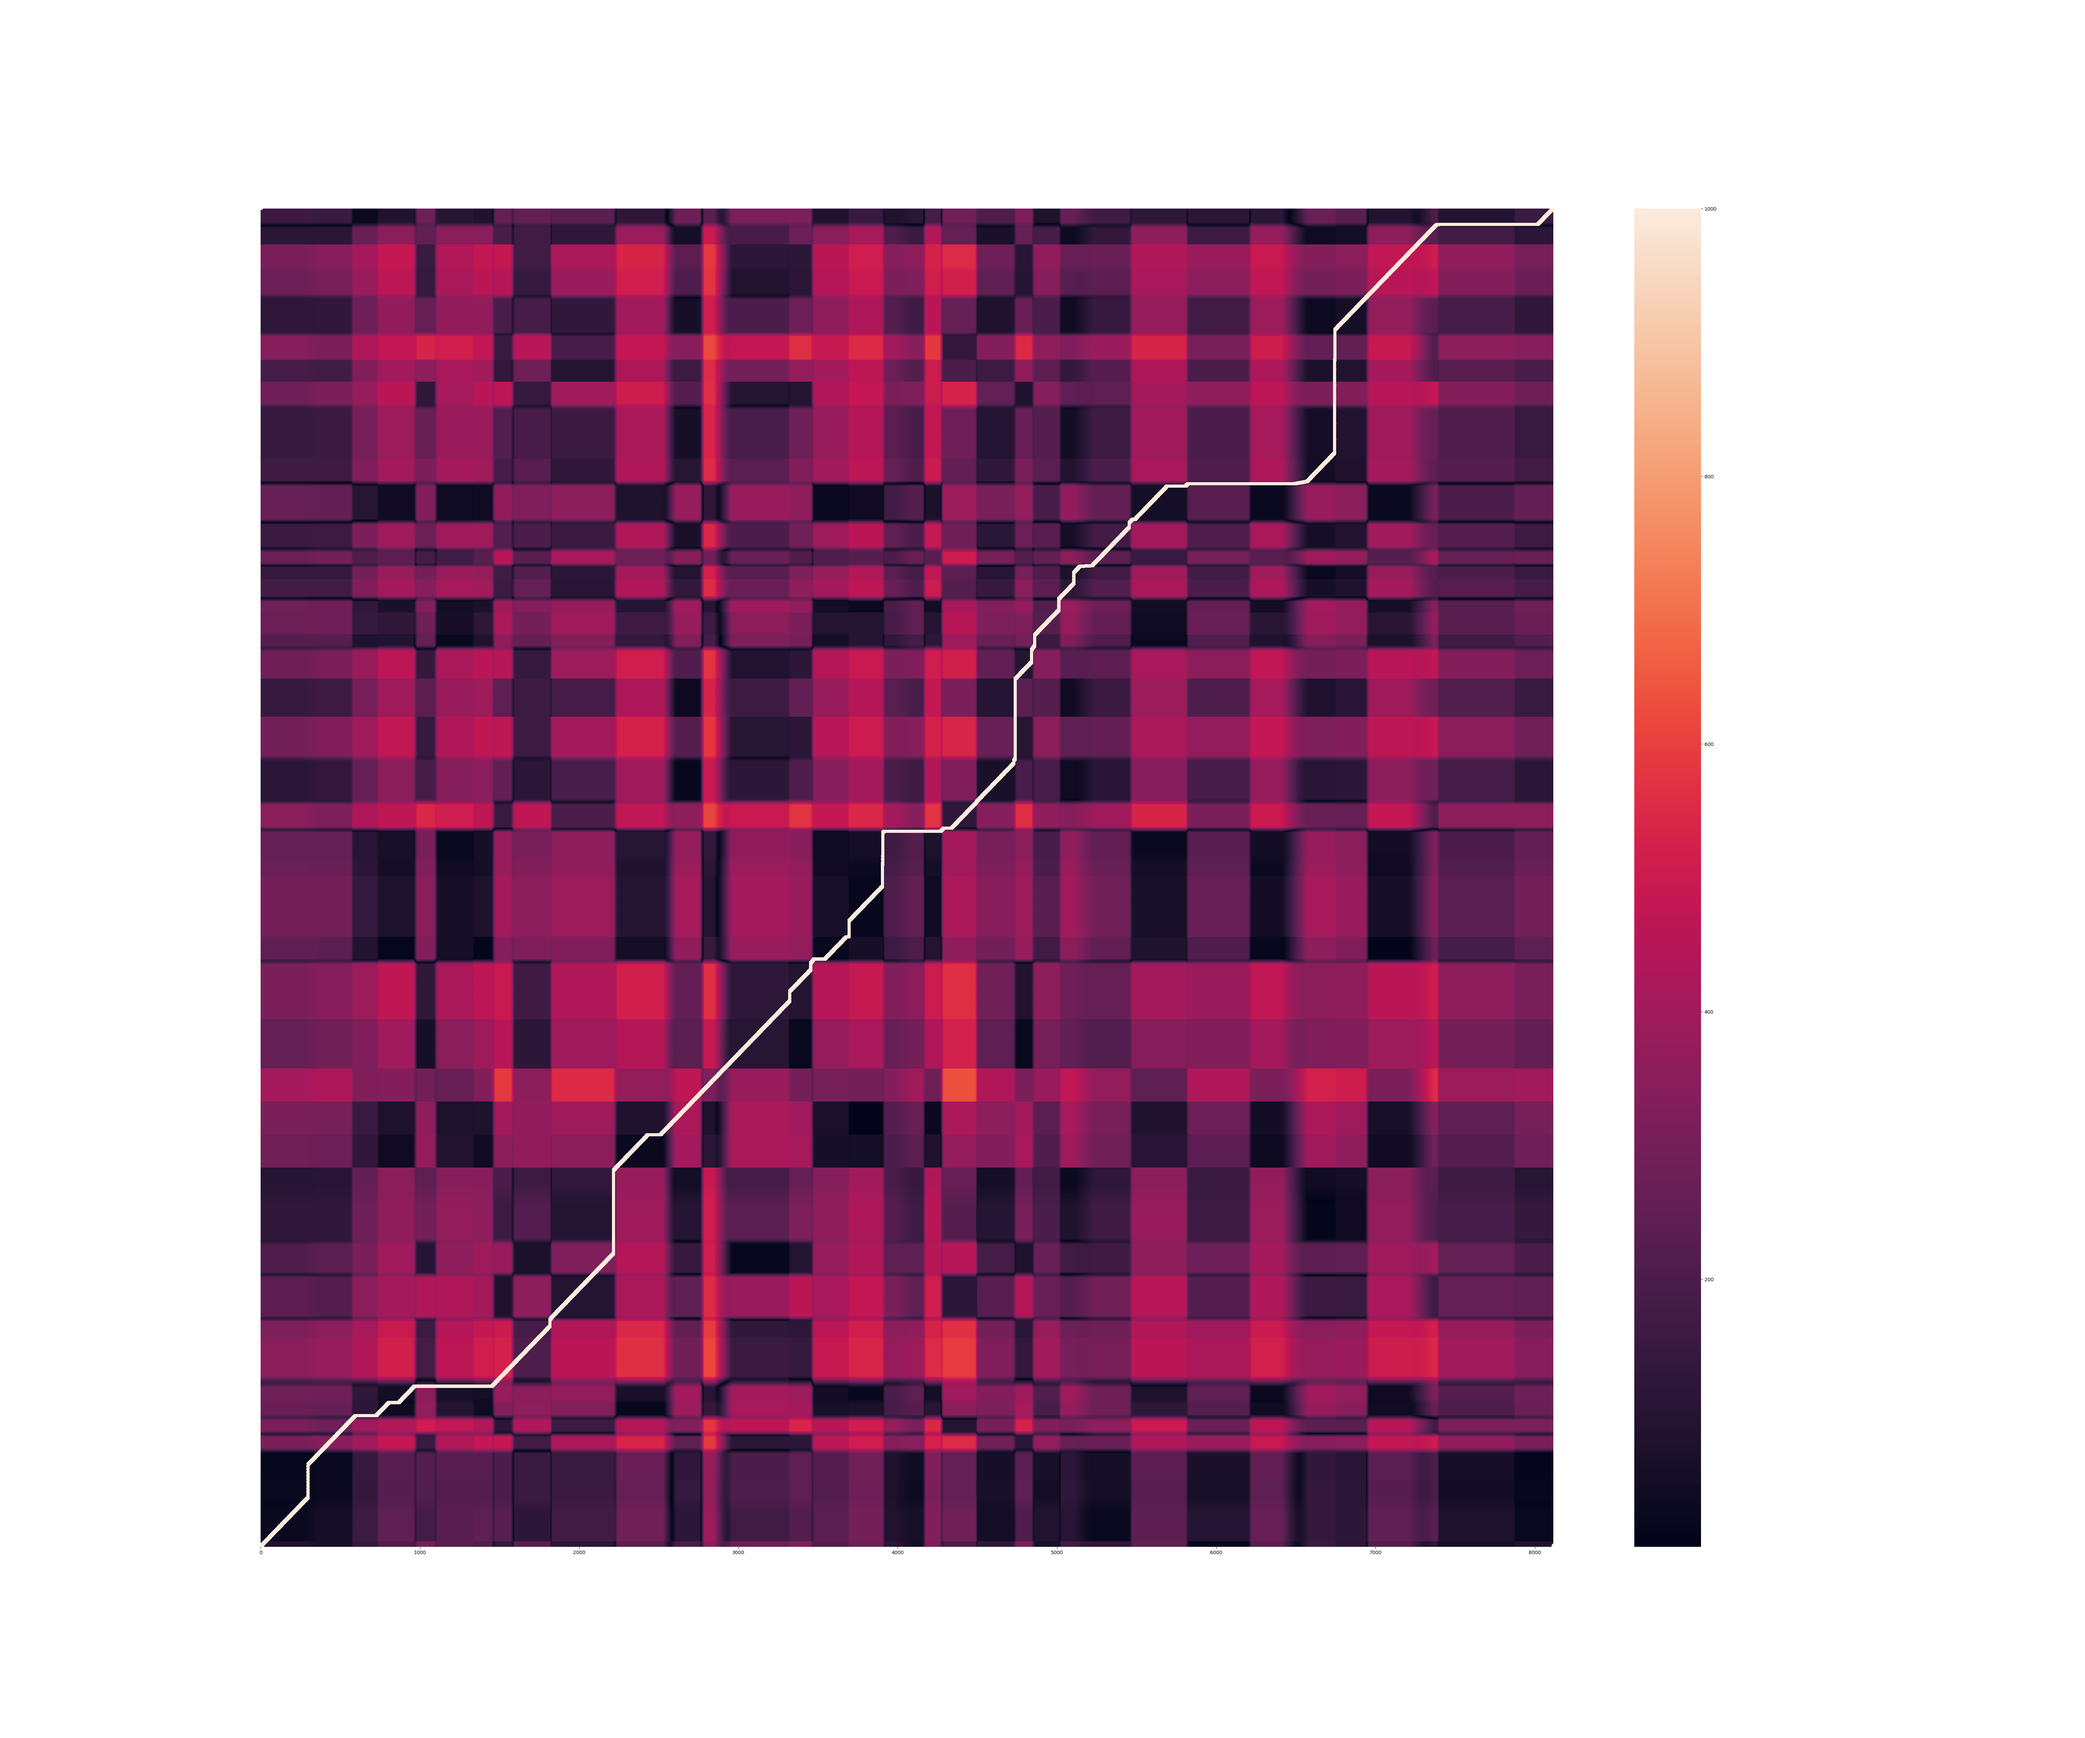
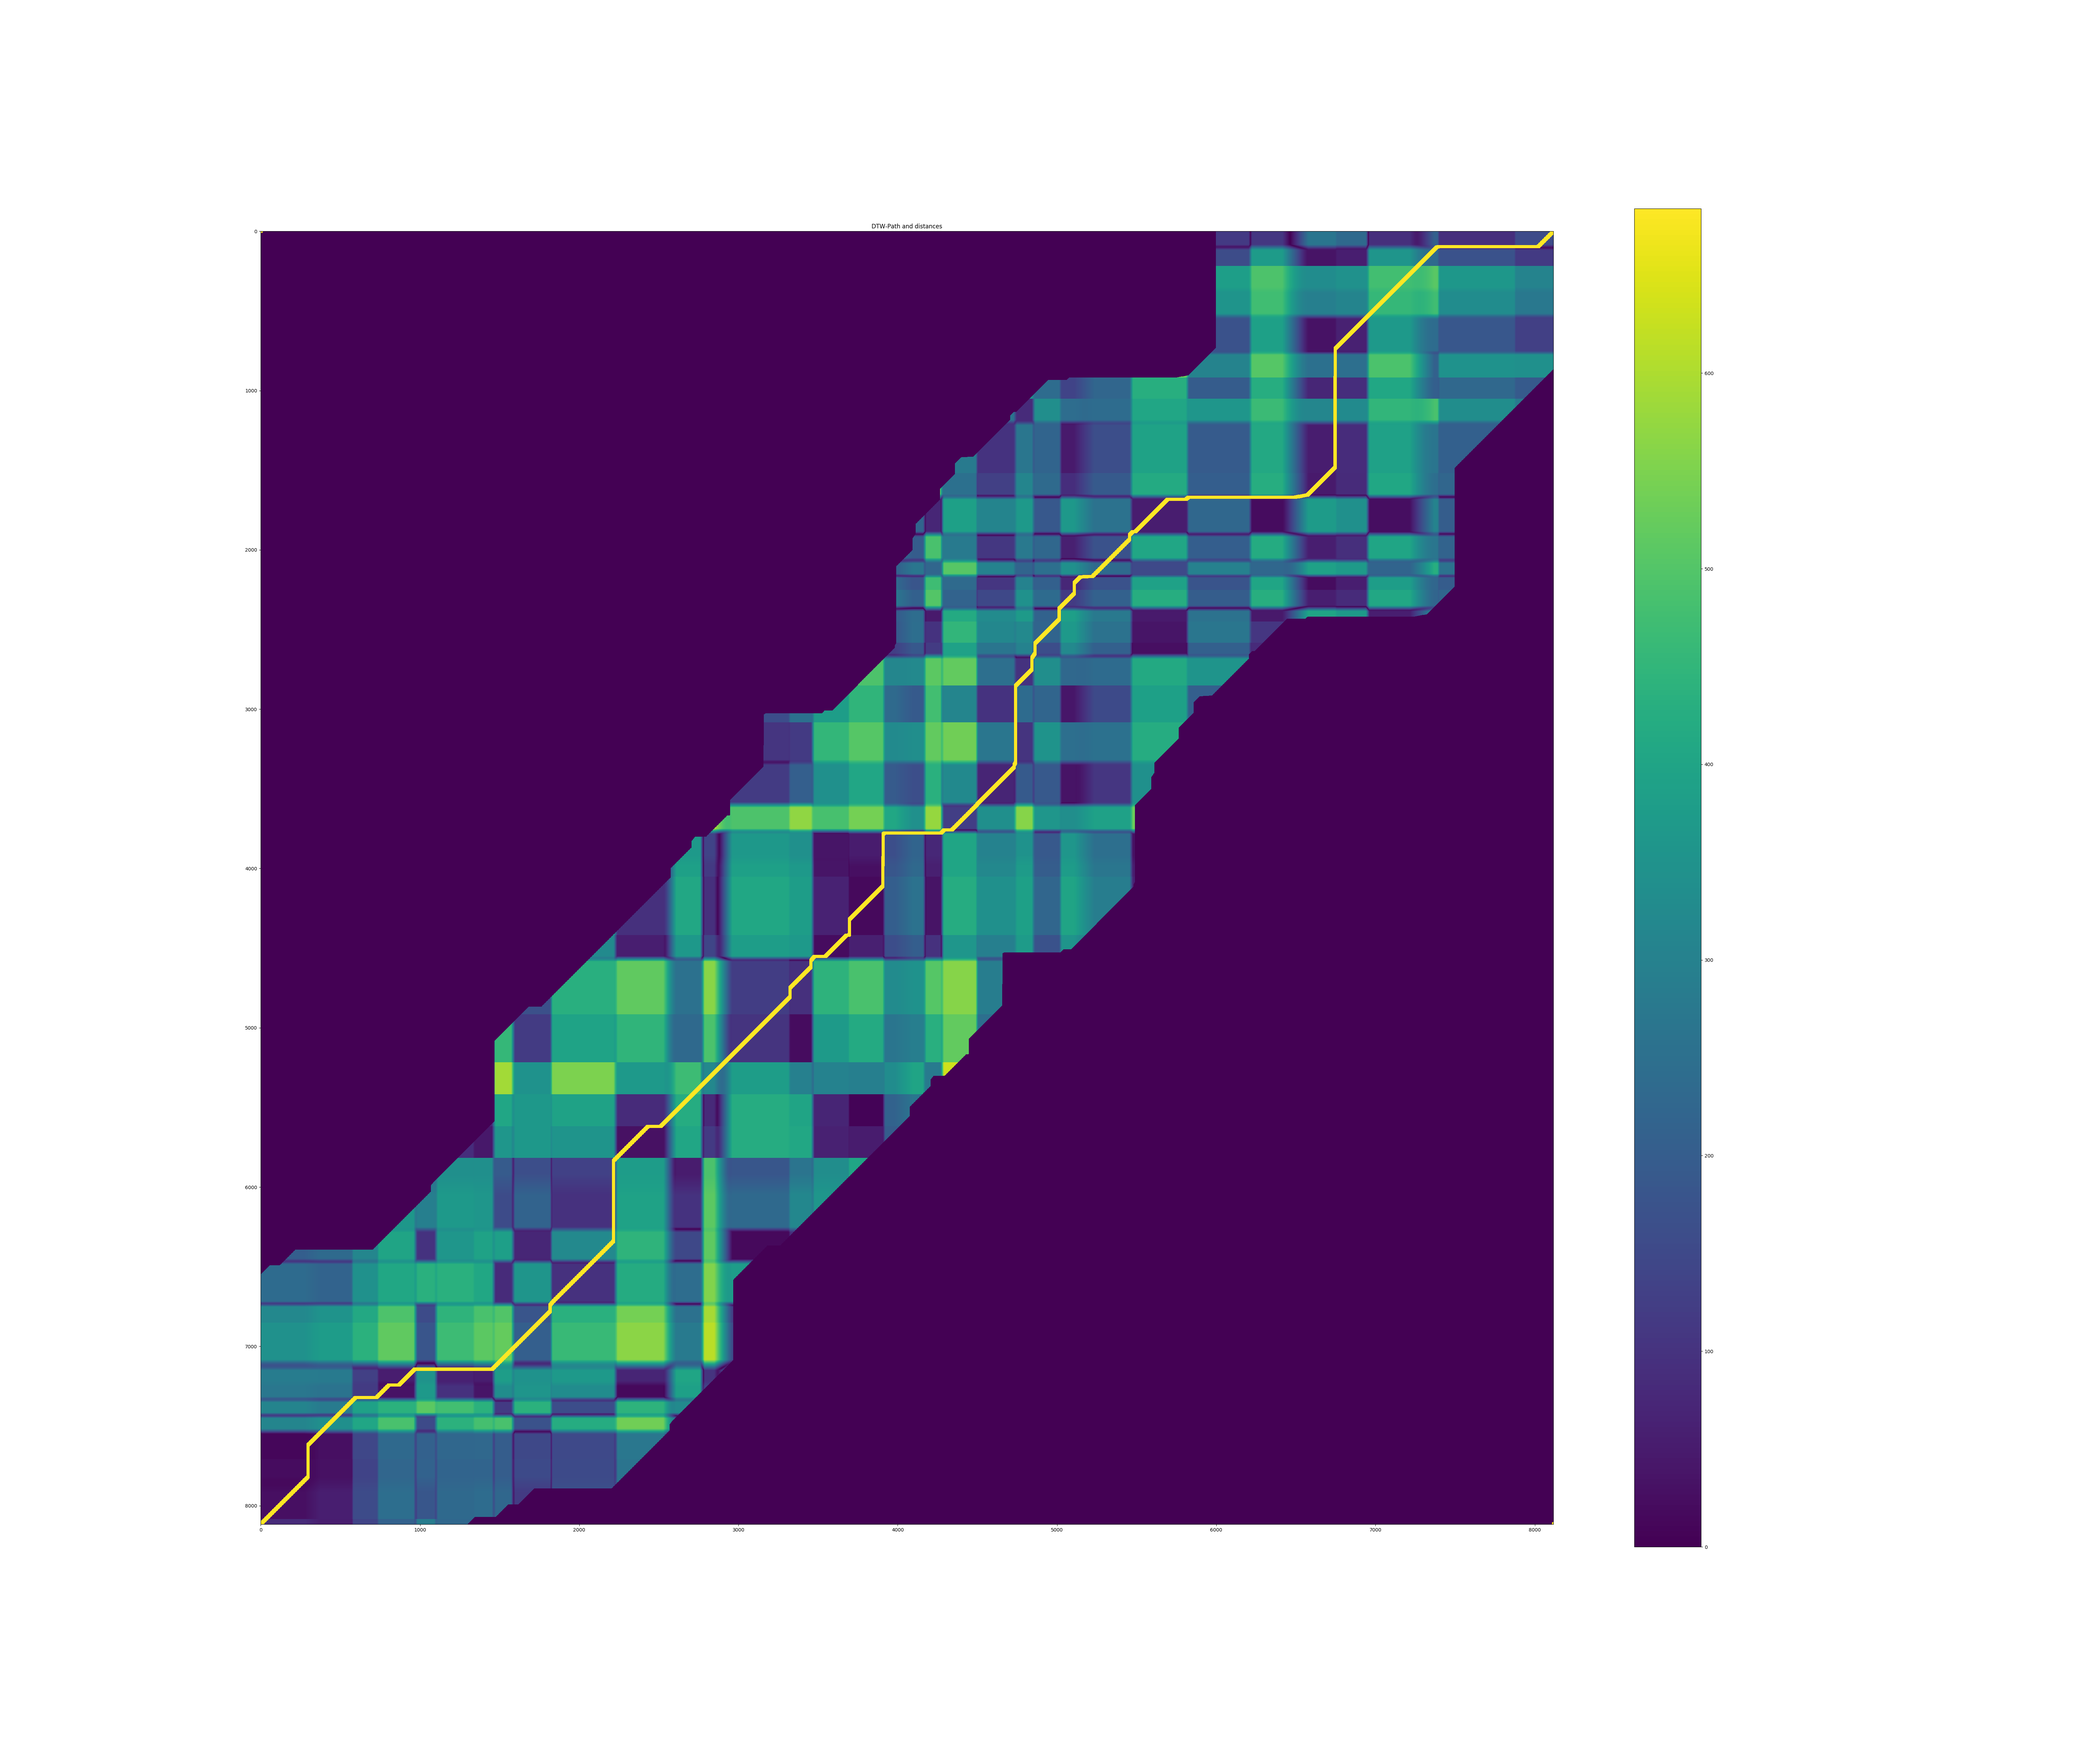
Pathmap adaptive matplotlib

diff --git a/Pathmap.py b/Pathmap.py
@@ -3,11 +3,12 @@ import seaborn as sns
 from tqdm import tqdm
 from matplotlib import pyplot as plt
 import pandas as pd
-from dtaidistance import dtw_visualisation
+# from dtaidistance import dtw_visualisation
 from time import time
 import matplotlib.ticker as ticker
 import matplotlib.cm as cm
 import matplotlib as mpl
+from itertools import chain
 
 
 class Pathmap:
@@ -64,30 +65,74 @@ class Pathmap:
 
     def get_matrix2(self):
         matrix = np.empty([self.signal_len, self.signal_len])
+        maxdist = 0
         for i in tqdm(range(self.signal_len)):
-            for j in range(max([0, i - 101]), min([i + 101, self.signal_len])):
-                matrix[i, j] = self.d(i, j)
+            for j in range(max([0, i - 1501]), min([i + 1501, self.signal_len])):
+                d = self.d(i, j)
+                matrix[i, j] = d
+                if d > maxdist:
+                    maxdist = d
+        path_val = maxdist + 50
         for i in range(self.path_len):
-            matrix[self.p_r[i], self.p_q[i]] = 500
+            matrix[self.p_r[i], self.p_q[i]] = path_val
             for k in range(-10, 10):
                 for l in range(-10, 10):
                     try:
-                        matrix[self.p_r[i] + k, self.p_q[i] + l] = 500
+                        matrix[self.p_r[i] + k, self.p_q[i] + l] = path_val
+                    except IndexError:
+                        continue
+
+        return matrix
+
+    def get_matrix_adaptiv(self):
+        matrix = np.empty([self.signal_len, self.signal_len])
+        maxdist = 0
+        my_iter = chain(range(-750, -10), range(10, 750))
+        my_iter2 = chain(range(-750, -10), range(10, 750))
+        for i in tqdm(range(self.path_len)):
+            for l in range(2):
+                for k in range(10, 750):
+                    x = self.p_r[i] - k + l
+                    y = self.p_q[i] + k
+                    if 0 <= x < self.signal_len and 0 <= y < self.signal_len:
+                        d = self.d(x, y)
+                        matrix[x, y] = d
+                        if d > maxdist:
+                            maxdist = d
+                    x = self.p_r[i] + k + l
+                    y = self.p_q[i] - k
+                    if 0 <= x < self.signal_len and 0 <= y < self.signal_len:
+                        d = self.d(x, y)
+                        matrix[x, y] = d
+                        if d > maxdist:
+                            maxdist = d
+
+        path_val = maxdist + 50
+        for i in range(self.path_len):
+            matrix[self.p_r[i], self.p_q[i]] = path_val
+            for k in range(-10, 10):
+                for l in range(-10, 10):
+                    try:
+                        matrix[self.p_r[i] + k, self.p_q[i] + l] = path_val
                     except IndexError:
                         continue
 
         return matrix
 
     def heatmap2(self):
+        fontsize = 30
         t0 = time()
-        m = self.get_matrix()[::-1, :]
-        mask = np.array(
-            [[False if abs(i - j) <= 100 else True for i in range(self.signal_len)] for j in range(self.signal_len)])
+        m = self.get_matrix_adaptiv()       #[::-1, :]
+        # mask = np.array(
+        #   [[False if abs(i - (self.signal_len-j)) <= 1500 else True for i in range(self.signal_len)] for j in range(self.signal_len)])
 
-        fig = plt.figure(1)
-        plt.subplots(figsize=(60, 50))
-
-        sns.heatmap(m, mask=mask, xticklabels=1000, yticklabels=False)
+        fig, ax = plt.subplots(figsize=(60, 50))
+        c = ax.imshow(m, cmap="viridis")
+        cb = fig.colorbar(c, ax=ax, fraction=0.046, pad=0.04)
+        plt.gca().invert_yaxis()
+        #cb.set_label(label='distance')
+        ax.tick_params(labelsize=fontsize)
+        cb.ax.tick_params(labelsize=fontsize)
         plt.savefig(self.name)
         plt.clf()
         t = time() - t0

diff --git a/starter.py b/starter.py
@@ -6,7 +6,7 @@ import sys
 
 def run_aw1(pbn):
     output = []
-    process = subprocess.Popen('python auswertung1.py ' + pbn, stdout=subprocess.PIPE,
+    process = subprocess.Popen('python3 auswertung1.py ' + pbn, stdout=subprocess.PIPE,
                                cwd=".", shell=True)
     for line in iter(process.stdout.readline, b''):
         l = line.decode('utf-8')
@@ -18,9 +18,15 @@ def run_aw1(pbn):
 
 def heatmap_multi():
     pool = ThreadPool(4)
-    pbns = ["pb1", "pb3"]  # , "pb2", "pb3", "pb3_2", "pb4"]
-
-    results = pool.map(run_aw1, pbns)
+    pbns = ["pb1", "pb1_2", "pb2"]  # , "pb2", "pb3", "pb3_2", "pb4"]
+    distances = ["euklid", "winkel", "winkellog"]
+    todo = []
+    for p in pbns:
+        for d in distances:
+            todo.append(p+" "+d)
+    print("Todo: ")
+    print(todo)
+    results = pool.map(run_aw1, todo)
     return results
 
 

diff --git a/distances.py b/distances.py
@@ -80,7 +80,7 @@ def distance_winkel4(u, v):
     t = distance_winkel(u, v)
     if tmp_u[0] == tmp_u[1] == 0 or tmp_v[0] == tmp_v[1] == 0:
         return 0
-    n = float(abs(np.sqrt((u[0] - v[0]) ** 2 + (u[1] - v[1]) ** 2)))
+    #n = float(abs(np.sqrt((u[0] - v[0]) ** 2 + (u[1] - v[1]) ** 2)))
     a = np.sqrt(tmp_u[0] ** 2 + tmp_u[1] ** 2)
     b = np.sqrt(tmp_v[0] ** 2 + tmp_v[1] ** 2)
     #func_ab_old = np.sqrt(a ** 2 + b ** 2) / (a / b + b / a)

diff --git a/auswertung1.py b/auswertung1.py
@@ -235,11 +235,11 @@ if __name__ == "__main__":
     write_ausw(header, results)
     '''
 
-    #pbn = sys.argv[1]
-    pbn = "pb1"
+    pbn = sys.argv[1]
+    #pbn = "pb2"
     alias = "Spot1"
-    #distance = sys.argv[2]
-    distance = "winkel"
+    distance = sys.argv[2]
+    #distance = "euklid"
     pr = pbn.split('_')[0] if '_' in pbn else pbn
     calc_heatmap(pbn, pr, alias, distance)
     print("done")
